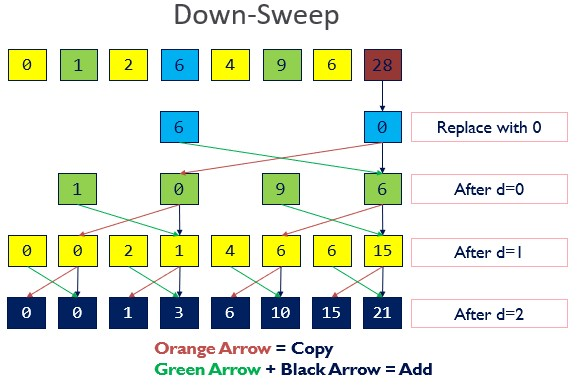
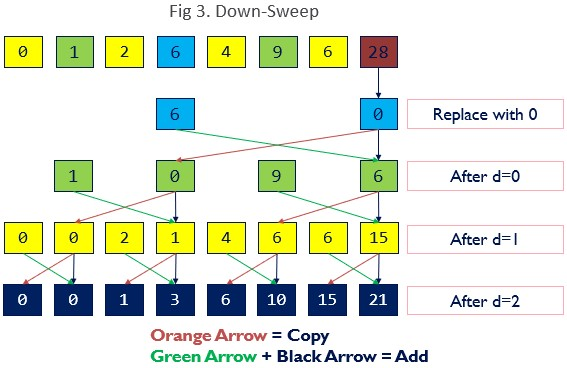
Updating README

Changed region(s): [[0.0, 0.0, 1.0, 0.9864], [0.9594, 0.4484, 1.0, 0.5082]]

diff --git a/README.md b/README.md
@@ -15,7 +15,7 @@ CUDA Stream Compaction
 Stream compaction is an important parallel computing primitive that generates a compact output buffer with selected elements of an input buffer based on some condition. Basically, given an array of elements, we want to create a new array with elements that meet a certain criteria while preserving order.
 The important steps in a stream compaction algorithm are as follows:
 
-[](img/stream-compaction.jpg)
+![](img/stream-compaction.jpg)
 
 1. Step 1: Mapping - Compute a temporary array containing
     - 1 if corresponding element meets criteria
@@ -33,14 +33,14 @@ In this project, I implemented stream compaction on CPU and GPU using parallel a
 1. Naive scan
 2. Work-efficient scan
     - Step 1: Upsweep scan (Parallel Reduction)
-    
-        [](img/upsweep.jpg)
+
+        ![](img/upsweep.jpg)
 
     - Step 2: Downsweep scan (Collecting scanned results) - At each level
         - Left child: Copy the parent value
         - Right child: Add the parent value and left child value copying  root value.
 
-        [](img/upsweep.jpg)
+        [](img/downsweep.jpg)
 
 
 
